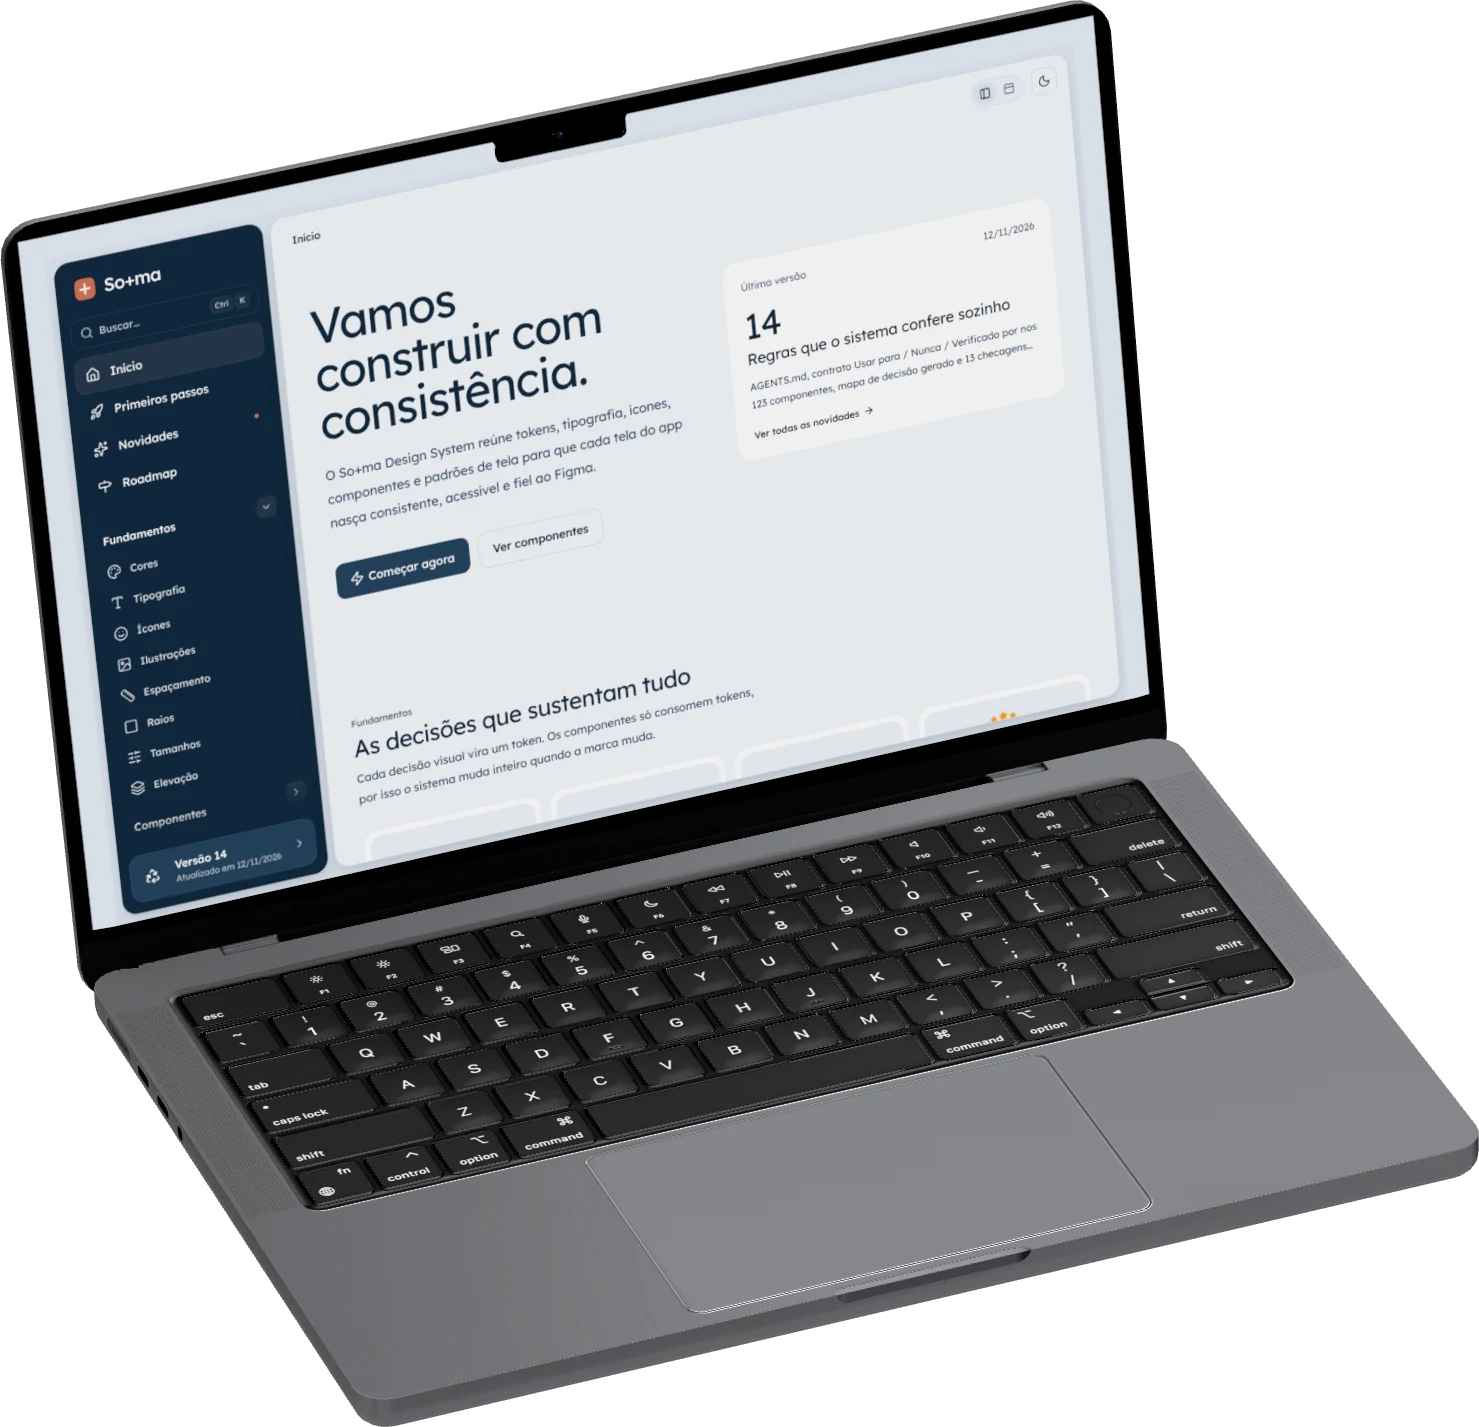
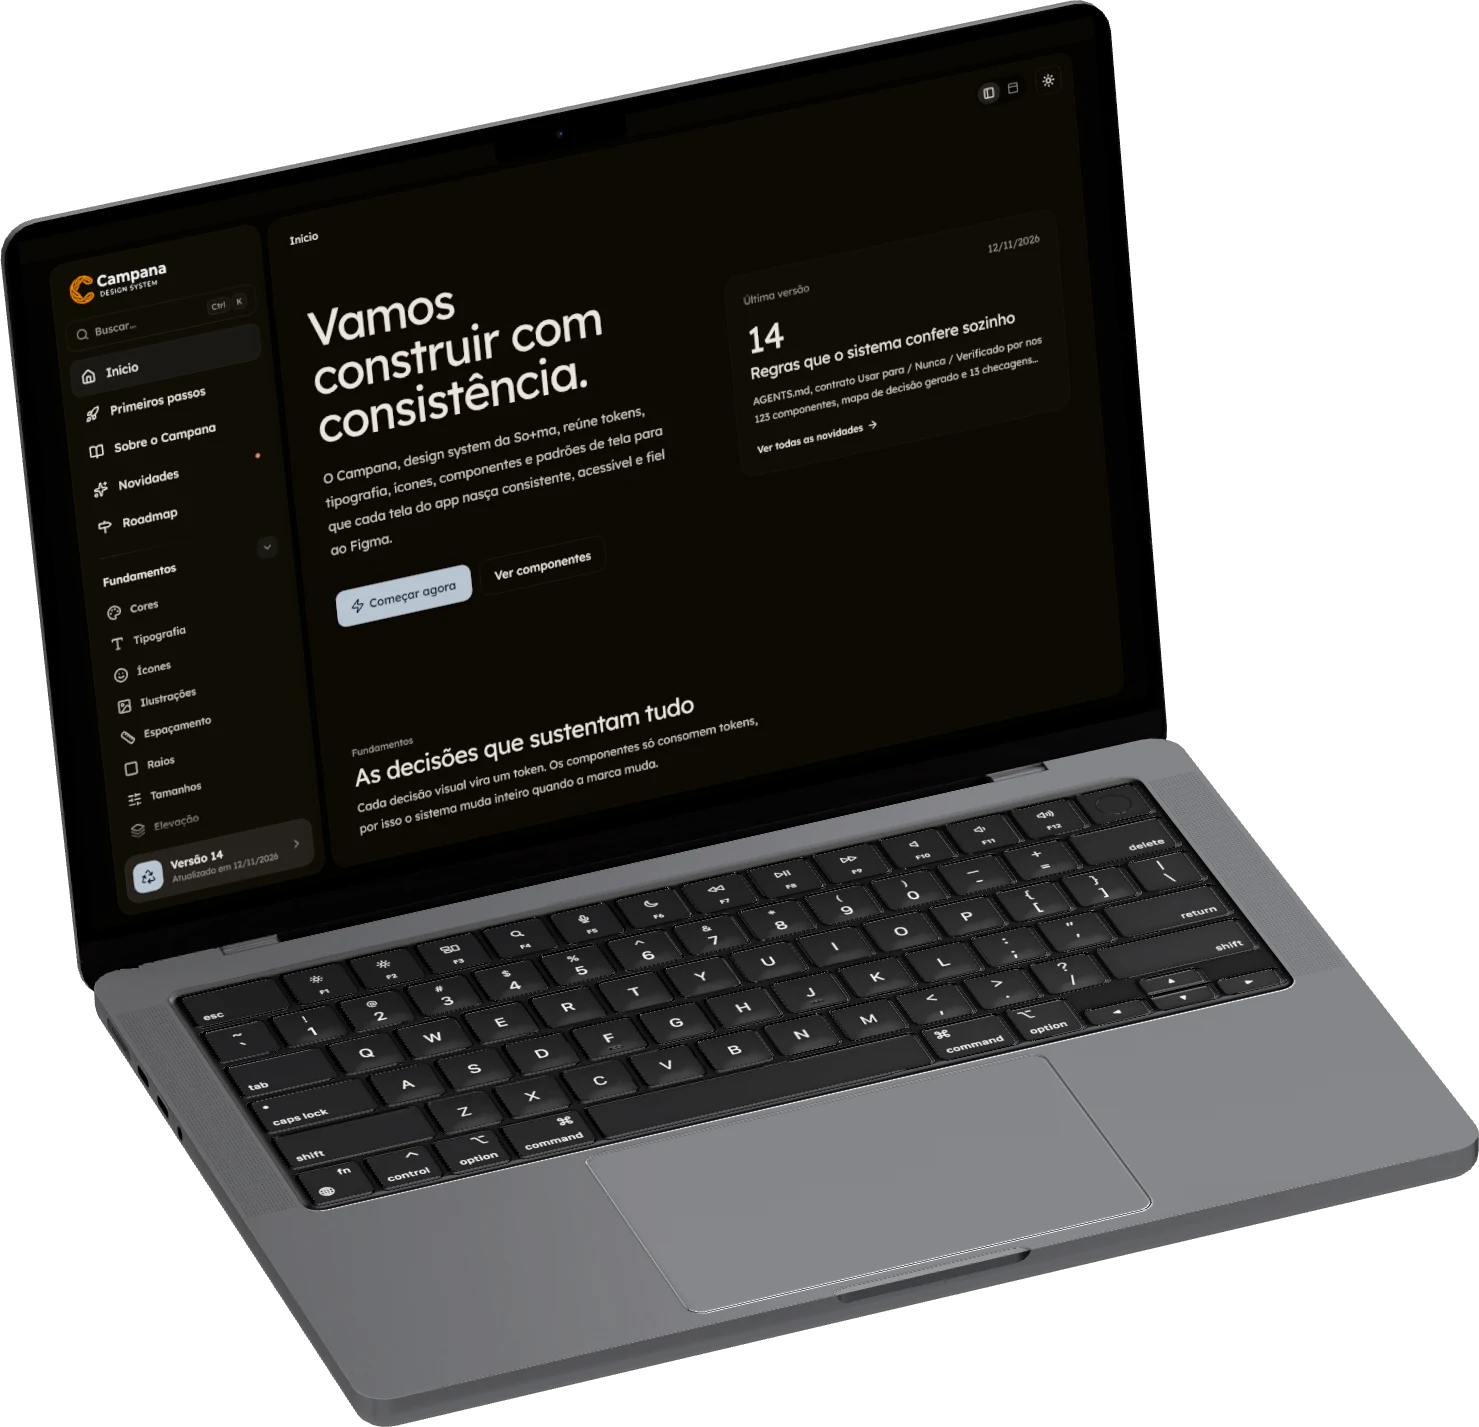
Thumb do Squad de Comus preenche a tela; thumb e título do Campana Design System
Claude-Session: https://claude.ai/code/session_011ETaZtr8DPnPDrrejMEoaU

diff --git a/es/index.html b/es/index.html
@@ -84,11 +84,11 @@
 <span class="cs-badge" aria-hidden="true"><svg viewBox="0 0 13 13" width="12" height="12" fill="none" stroke="currentColor" stroke-width="1.6" stroke-linecap="round" stroke-linejoin="round" aria-hidden="true"><path d="M3.5 9.5l6-6M4.5 3.5h5v5"/></svg></span></div>
 <div class="cs-cap"><p class="cs-bt">App del picker para entregas en minutos <span>Mercado Libre</span></p><p class="cs-bd">Volumen, stock, bolsas y comprobación de lo recolectado: cuatro fallas del flujo, cuatro frentes.</p><p class="cs-tags"><span>Product Design</span><span>Content Design</span></p></div>
 </a>
-<a class="wk cs-card" href="#design-system-soma" data-case="design-system-soma" aria-label="Design system de So+ma para personas y para IA">
-<div class="cs-vis"><div class="cs-inner"><div class="dv3 dv3-desk"><img src="/mockups/design-system-soma.webp" alt="Sitio de documentación del So+ma Design System con el título Vamos a construir con consistencia" width="1479" height="1427" loading="lazy" decoding="async"></div></div>
-<div class="cs-bar" aria-hidden="true"><p class="cs-bt">Design system de So+ma para personas y para IA <span>So+ma</span></p><p class="cs-bd">Tokens, 123 componentes y reglas que el propio sistema verifica, para armar pantallas fieles a Figma.</p><p class="cs-tags"><span>Product Design</span><span>Design System</span><span>Design Engineering</span></p></div>
+<a class="wk cs-card" href="#design-system-soma" data-case="design-system-soma" aria-label="Campana Design System, white-label y escalable">
+<div class="cs-vis"><div class="cs-inner"><div class="dv3 dv3-desk"><img src="/mockups/design-system-soma.webp" alt="Sitio de documentación del Campana Design System con el título Vamos a construir con consistencia" width="1479" height="1427" loading="lazy" decoding="async"></div></div>
+<div class="cs-bar" aria-hidden="true"><p class="cs-bt">Campana Design System, white-label y escalable <span>So+ma</span></p><p class="cs-bd">Tokens, 123 componentes y reglas que el propio sistema verifica, para armar pantallas fieles a Figma.</p><p class="cs-tags"><span>Product Design</span><span>Design System</span><span>Design Engineering</span></p></div>
 <span class="cs-badge" aria-hidden="true"><svg viewBox="0 0 13 13" width="12" height="12" fill="none" stroke="currentColor" stroke-width="1.6" stroke-linecap="round" stroke-linejoin="round" aria-hidden="true"><path d="M3.5 9.5l6-6M4.5 3.5h5v5"/></svg></span></div>
-<div class="cs-cap"><p class="cs-bt">Design system de So+ma para personas y para IA <span>So+ma</span></p><p class="cs-bd">Tokens, 123 componentes y reglas que el propio sistema verifica, para armar pantallas fieles a Figma.</p><p class="cs-tags"><span>Product Design</span><span>Design System</span><span>Design Engineering</span></p></div>
+<div class="cs-cap"><p class="cs-bt">Campana Design System, white-label y escalable <span>So+ma</span></p><p class="cs-bd">Tokens, 123 componentes y reglas que el propio sistema verifica, para armar pantallas fieles a Figma.</p><p class="cs-tags"><span>Product Design</span><span>Design System</span><span>Design Engineering</span></p></div>
 </a>
 <a class="wk cs-card" href="#pausar-loja" data-case="pausar-loja" aria-label="Pausar una tienda en el backoffice">
 <div class="cs-vis"><div class="cs-inner"><div class="dv3 dv3-desk"><img src="/mockups/pausar-loja.webp" alt="Panel Pausar tienda con las opciones de duración y motivo sobre la pantalla de configuración de la tienda" width="1479" height="1427" loading="lazy" decoding="async"></div></div>
@@ -292,10 +292,10 @@
 </div>
 </div>
 </section></template>
-<template id="tpl-design-system-soma"><section class="sp-case" aria-label="Design system de So+ma para personas y para IA">
+<template id="tpl-design-system-soma"><section class="sp-case" aria-label="Campana Design System, white-label y escalable">
 <div class="cx-hero">
 <img class="cx-logo-img" src="/soma-logo.png" alt="So+ma" width="228" height="228">
-<h2 class="cx-title">Design system de So+ma para personas y para IA</h2>
+<h2 class="cx-title">Campana Design System, white-label y escalable</h2>
 <p class="cx-sub">Tokens, 123 componentes y reglas que el propio sistema verifica, para armar pantallas fieles a Figma.</p>
 <p class="cx-role"><b>Design Engineer</b><span>So+ma</span></p>
 </div>

diff --git a/pt/index.html b/pt/index.html
@@ -102,11 +102,11 @@
 <span class="cs-badge" aria-hidden="true"><svg viewBox="0 0 13 13" width="12" height="12" fill="none" stroke="currentColor" stroke-width="1.6" stroke-linecap="round" stroke-linejoin="round" aria-hidden="true"><path d="M3.5 9.5l6-6M4.5 3.5h5v5"/></svg></span></div>
 <div class="cs-cap"><p class="cs-bt">App do picker para entrega em minutos <span>Mercado Livre</span></p><p class="cs-bd">Volume, estoque, sacolas e comprovação do que foi coletado: quatro falhas, quatro frentes.</p><p class="cs-tags"><span>Product Design</span><span>Content Design</span></p></div>
 </a>
-<a class="wk cs-card" href="#design-system-soma" data-case="design-system-soma" aria-label="Design system do So+ma para pessoas e para IA">
-<div class="cs-vis"><div class="cs-inner"><div class="dv3 dv3-desk"><img src="/mockups/design-system-soma.webp" alt="Site de documentação do So+ma Design System com o título Vamos construir com consistência" width="1479" height="1427" loading="lazy" decoding="async"></div></div>
-<div class="cs-bar" aria-hidden="true"><p class="cs-bt">Design system do So+ma para pessoas e para IA <span>So+ma</span></p><p class="cs-bd">Tokens, 123 componentes e regras que o próprio sistema confere, para montar telas fiéis ao Figma.</p><p class="cs-tags"><span>Product Design</span><span>Design System</span><span>Design Engineering</span></p></div>
+<a class="wk cs-card" href="#design-system-soma" data-case="design-system-soma" aria-label="Campana Design System, white-label e escalável">
+<div class="cs-vis"><div class="cs-inner"><div class="dv3 dv3-desk"><img src="/mockups/design-system-soma.webp" alt="Site de documentação do Campana Design System com o título Vamos construir com consistência" width="1479" height="1427" loading="lazy" decoding="async"></div></div>
+<div class="cs-bar" aria-hidden="true"><p class="cs-bt">Campana Design System, white-label e escalável <span>So+ma</span></p><p class="cs-bd">Tokens, 123 componentes e regras que o próprio sistema confere, para montar telas fiéis ao Figma.</p><p class="cs-tags"><span>Product Design</span><span>Design System</span><span>Design Engineering</span></p></div>
 <span class="cs-badge" aria-hidden="true"><svg viewBox="0 0 13 13" width="12" height="12" fill="none" stroke="currentColor" stroke-width="1.6" stroke-linecap="round" stroke-linejoin="round" aria-hidden="true"><path d="M3.5 9.5l6-6M4.5 3.5h5v5"/></svg></span></div>
-<div class="cs-cap"><p class="cs-bt">Design system do So+ma para pessoas e para IA <span>So+ma</span></p><p class="cs-bd">Tokens, 123 componentes e regras que o próprio sistema confere, para montar telas fiéis ao Figma.</p><p class="cs-tags"><span>Product Design</span><span>Design System</span><span>Design Engineering</span></p></div>
+<div class="cs-cap"><p class="cs-bt">Campana Design System, white-label e escalável <span>So+ma</span></p><p class="cs-bd">Tokens, 123 componentes e regras que o próprio sistema confere, para montar telas fiéis ao Figma.</p><p class="cs-tags"><span>Product Design</span><span>Design System</span><span>Design Engineering</span></p></div>
 </a>
 <a class="wk cs-card" href="#pausar-loja" data-case="pausar-loja" aria-label="Pausar loja no backoffice">
 <div class="cs-vis"><div class="cs-inner"><div class="dv3 dv3-desk"><img src="/mockups/pausar-loja.webp" alt="Painel Pausar tienda com as opções de duração e motivo sobre a tela de configuração da loja" width="1479" height="1427" loading="lazy" decoding="async"></div></div>
@@ -310,10 +310,10 @@
 </div>
 </div>
 </section></template>
-<template id="tpl-design-system-soma"><section class="sp-case" aria-label="Design system do So+ma para pessoas e para IA">
+<template id="tpl-design-system-soma"><section class="sp-case" aria-label="Campana Design System, white-label e escalável">
 <div class="cx-hero">
 <img class="cx-logo-img" src="/soma-logo.png" alt="So+ma" width="228" height="228">
-<h2 class="cx-title">Design system do So+ma para pessoas e para IA</h2>
+<h2 class="cx-title">Campana Design System, white-label e escalável</h2>
 <p class="cx-sub">Tokens, 123 componentes e regras que o próprio sistema confere, para montar telas fiéis ao Figma.</p>
 <p class="cx-role"><b>Design Engineer</b><span>So+ma</span></p>
 </div>

diff --git a/index.html b/index.html
@@ -84,11 +84,11 @@
 <span class="cs-badge" aria-hidden="true"><svg viewBox="0 0 13 13" width="12" height="12" fill="none" stroke="currentColor" stroke-width="1.6" stroke-linecap="round" stroke-linejoin="round" aria-hidden="true"><path d="M3.5 9.5l6-6M4.5 3.5h5v5"/></svg></span></div>
 <div class="cs-cap"><p class="cs-bt">Picker app for deliveries in minutes <span>Mercado Libre</span></p><p class="cs-bd">Volume, stock, bags and proof of what was collected: four flow failures, four workstreams.</p><p class="cs-tags"><span>Product Design</span><span>Content Design</span></p></div>
 </a>
-<a class="wk cs-card" href="#design-system-soma" data-case="design-system-soma" aria-label="So+ma design system for people and AI">
-<div class="cs-vis"><div class="cs-inner"><div class="dv3 dv3-desk"><img src="/mockups/design-system-soma.webp" alt="So+ma Design System documentation site with the headline Let’s build with consistency" width="1479" height="1427" loading="lazy" decoding="async"></div></div>
-<div class="cs-bar" aria-hidden="true"><p class="cs-bt">So+ma design system for people and AI <span>So+ma</span></p><p class="cs-bd">Tokens, 123 components and rules the system checks on its own, to build screens that match Figma.</p><p class="cs-tags"><span>Product Design</span><span>Design System</span><span>Design Engineering</span></p></div>
+<a class="wk cs-card" href="#design-system-soma" data-case="design-system-soma" aria-label="Campana Design System, white-label and scalable">
+<div class="cs-vis"><div class="cs-inner"><div class="dv3 dv3-desk"><img src="/mockups/design-system-soma.webp" alt="Campana Design System documentation site with the headline Let’s build with consistency" width="1479" height="1427" loading="lazy" decoding="async"></div></div>
+<div class="cs-bar" aria-hidden="true"><p class="cs-bt">Campana Design System, white-label and scalable <span>So+ma</span></p><p class="cs-bd">Tokens, 123 components and rules the system checks on its own, to build screens that match Figma.</p><p class="cs-tags"><span>Product Design</span><span>Design System</span><span>Design Engineering</span></p></div>
 <span class="cs-badge" aria-hidden="true"><svg viewBox="0 0 13 13" width="12" height="12" fill="none" stroke="currentColor" stroke-width="1.6" stroke-linecap="round" stroke-linejoin="round" aria-hidden="true"><path d="M3.5 9.5l6-6M4.5 3.5h5v5"/></svg></span></div>
-<div class="cs-cap"><p class="cs-bt">So+ma design system for people and AI <span>So+ma</span></p><p class="cs-bd">Tokens, 123 components and rules the system checks on its own, to build screens that match Figma.</p><p class="cs-tags"><span>Product Design</span><span>Design System</span><span>Design Engineering</span></p></div>
+<div class="cs-cap"><p class="cs-bt">Campana Design System, white-label and scalable <span>So+ma</span></p><p class="cs-bd">Tokens, 123 components and rules the system checks on its own, to build screens that match Figma.</p><p class="cs-tags"><span>Product Design</span><span>Design System</span><span>Design Engineering</span></p></div>
 </a>
 <a class="wk cs-card" href="#pausar-loja" data-case="pausar-loja" aria-label="Pausing a store in the backoffice">
 <div class="cs-vis"><div class="cs-inner"><div class="dv3 dv3-desk"><img src="/mockups/pausar-loja.webp" alt="Pause store panel with the duration and reason options over the store settings screen" width="1479" height="1427" loading="lazy" decoding="async"></div></div>
@@ -292,10 +292,10 @@
 </div>
 </div>
 </section></template>
-<template id="tpl-design-system-soma"><section class="sp-case" aria-label="So+ma design system for people and AI">
+<template id="tpl-design-system-soma"><section class="sp-case" aria-label="Campana Design System, white-label and scalable">
 <div class="cx-hero">
 <img class="cx-logo-img" src="/soma-logo.png" alt="So+ma" width="228" height="228">
-<h2 class="cx-title">So+ma design system for people and AI</h2>
+<h2 class="cx-title">Campana Design System, white-label and scalable</h2>
 <p class="cx-sub">Tokens, 123 components and rules the system checks on its own, to build screens that match Figma.</p>
 <p class="cx-role"><b>Design Engineer</b><span>So+ma</span></p>
 </div>
